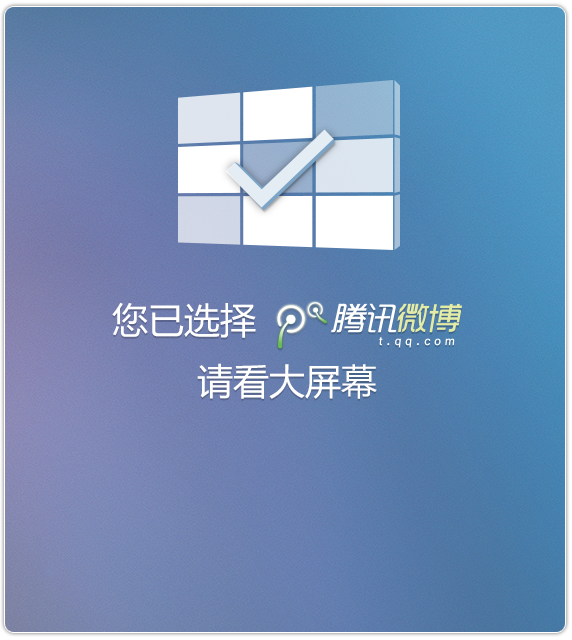
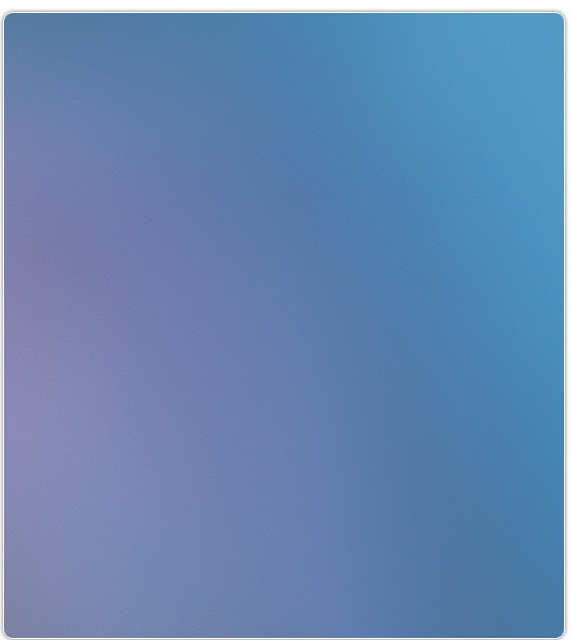
dphd

diff --git a/tx/dphd/index.html b/tx/dphd/index.html
@@ -43,7 +43,7 @@ body {
 	margin-left: -178px;
 	margin-top: 27em;
 }
-#back {
+.back {
 	width: 344px;
 	height: 80px;
 	background-image: url(img/back.png);
@@ -53,7 +53,7 @@ body {
 	margin-left: -172px;
 	margin-top: 40em;
 }
-#back a {
+.back a {
 	width: 344px;
 	height: 80px;
 	display: block;
@@ -194,23 +194,88 @@ body {
 	padding-left: 4px;
 }
 #bg {
-display: none;
-position: absolute;
-top: 0%;
-left: 50%;
-margin-left: -320px;
-width: 640px;
-height: 100%;
-background-color: black;
-z-index: 100;
--moz-opacity: 0.5;
-opacity: .50;
-filter: alpha(opacity=50);
+	display: none;
+	position: absolute;
+	top: 0%;
+	left: 50%;
+	margin-left: -320px;
+	width: 640px;
+	height: 1142px;
+	background-color: black;
+	z-index: 100;
+	-moz-opacity: 0.5;
+	opacity: .50;
+	filter: alpha(opacity=50);
+}
+#msg_win {
+	width: 572px;
+	height: 100%;
+	position: fixed;
+	left: 50%;
+	margin-left: -286px;
+	top: 0px;
+	background-image: url(img/msg_win_bg.png);
+	background-repeat: no-repeat;
+	z-index: 101;
+	display: none;
+}
+.back {
+	width: 344px;
+	height: 80px;
+	background-image: url(img/back.png);
+	background-repeat: no-repeat;
+	position: absolute;
+	left: 50%;
+	margin-left: -172px;
+	margin-top: 480px;
+}
+.back a {
+	width: 344px;
+	height: 80px;
+	display: block;
+}
+#ok {
+	width: 256px;
+	height: 174px;
+	background-image: url(img/ok.png);
+	background-repeat: no-repeat;
+	position: absolute;
+	left: 50%;
+	margin-left: -128px;
+	margin-top: 70px;
+}
+#content_text {
+	width: 356px;
+	height: 118px;
+	background-image: url(img/content_text.png);
+	background-repeat: no-repeat;
+	position: absolute;
+	left: 50%;
+	margin-left: -178px;
+	margin-top: 300px;
 }
 
-#msg_win{ width:572px; height:100%; position:fixed; left:50%; margin-left:-286px; top:0px; background-image:url(img/msg_win_bg.png); background-repeat:no-repeat;z-index: 101; display:none;}
-#back{ width:344px; height:80px; background-image:url(img/back.png); background-repeat:no-repeat; position:absolute; left:50%; margin-left:-172px; margin-top:470px;}
-#back a{width:344px; height:80px; display:block;}
+#msg_win_re_login {
+	width: 572px;
+	height: 100%;
+	position: fixed;
+	left: 50%;
+	margin-left: -286px;
+	top: 0px;
+	background-image: url(img/msg_win_bg.png);
+	background-repeat: no-repeat;
+	z-index: 101;
+	display: none;
+}
+#msg_win_re_login .back{ margin-top:410px;}
+
+#re_login_msg{ background-image:url(img/re_login.png);	background-repeat: no-repeat;
+	position: absolute;
+	left: 50%;
+	margin-left: -182px;
+	margin-top: 186px;
+	width: 364px;
+	height: 118px;}
 </style>
 </head>
 
@@ -258,11 +323,16 @@ filter: alpha(opacity=50);
         </a></li>
     </ul>
   </div>
-  
-
-  
 </div>
-<div id="msg_win"><div id="back"><a href="javascript:;"></a></div></div>
+<div id="msg_win">
+  <div id="ok"></div>
+  <div id="content_text"></div>
+  <div class="back"><a href="javascript:;"></a></div>
+</div>
+<div id="msg_win_re_login">
+  <div id="re_login_msg"></div>
+  <div class="back"><a href="javascript:;"></a></div>
+</div>
 
 <script language="javascript">
 
@@ -270,18 +340,19 @@ $(document).ready(function(e) {
 	
 	
 	 $("#video_box").delegate('.video_btn','click',function(){
+
+		 _h_timer = setTimeout( 'if($("#msg_win").hasClass("hideSelf")){$("#msg_win").animate({top:0,opacity:"hide",width:572,height:640,right:0},200);$("#bg").hide();$("#msg_win").removeClass("hideSelf");}' ,3000);	
 		$("#bg").show();
-		$("#msg_win").animate({top:80,opacity: 'show',width:572,height:640,right:0},500);
+		$("#msg_win").animate({top:80,opacity: 'show',width:572,right:0},500);
 		$("#msg_win").addClass("hideSelf");
-		
-		setTimeout( 'if($("#msg_win").hasClass("hideSelf")){$("#msg_win").animate({top:0,opacity:"hide",width:572,height:640,right:0},200);$("#bg").hide();$("#msg_win").removeClass("hideSelf");}' ,3000);	
-		 
 	 });
 	 
 	 $("#msg_win a").unbind('click').bind('click',function(){
-		$("#msg_win").animate({top:0,opacity: 'hide',width:572,height:640,right:0},200);
+		$("#msg_win").animate({top:0,opacity: 'hide',width:572,right:0},200);
 		 $("#bg").hide();
-		 $("#msg_win").removeClass("hideSelf");		 
+		 $("#msg_win").removeClass("hideSelf");	
+		 if(!!_h_timer)clearTimeout(_h_timer);
+ 
 	 });
 	
 	
@@ -290,7 +361,5 @@ $(document).ready(function(e) {
 
 
 </script>
-
-  
 </body>
 </html>
